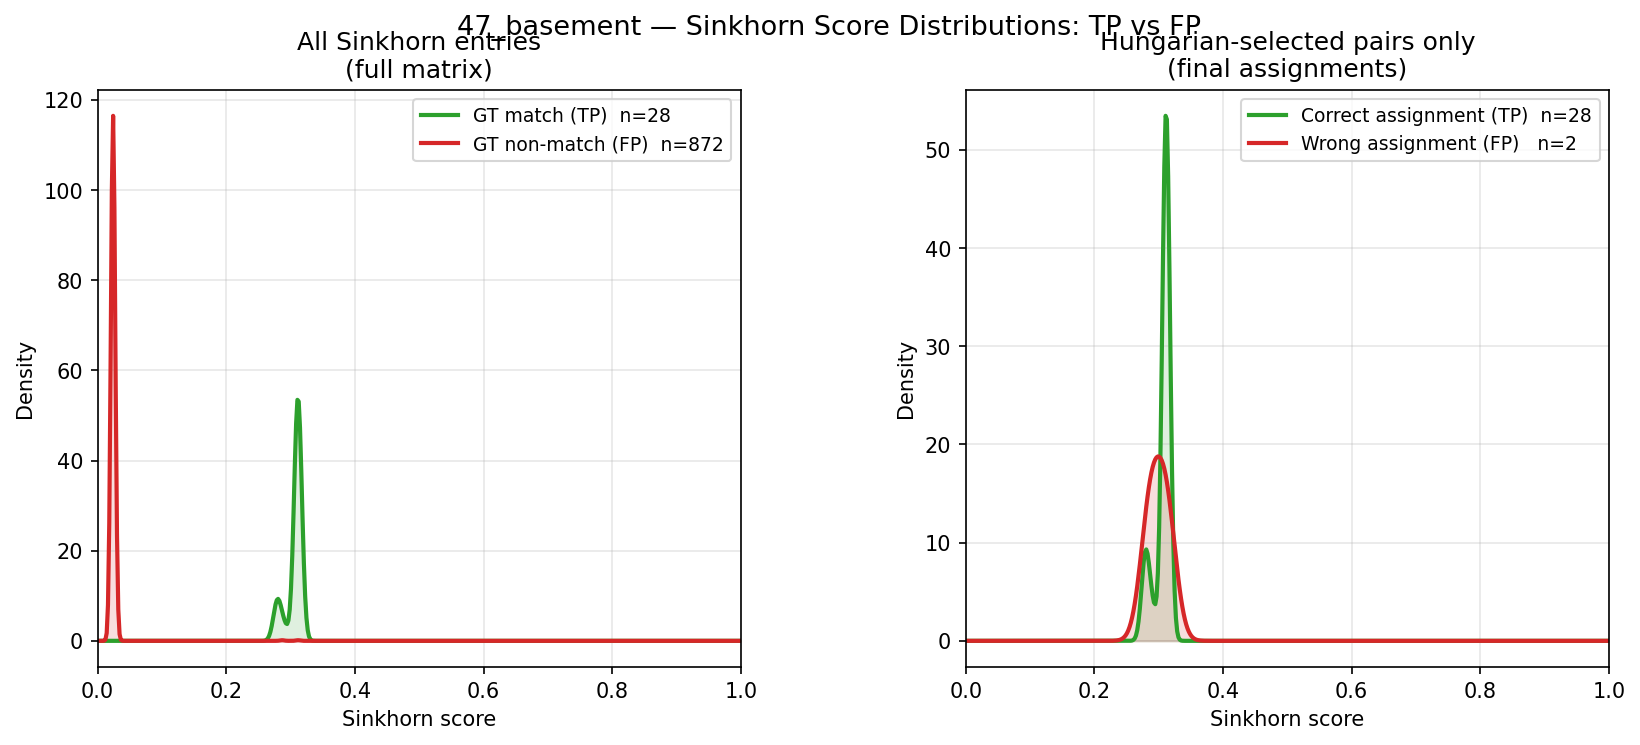
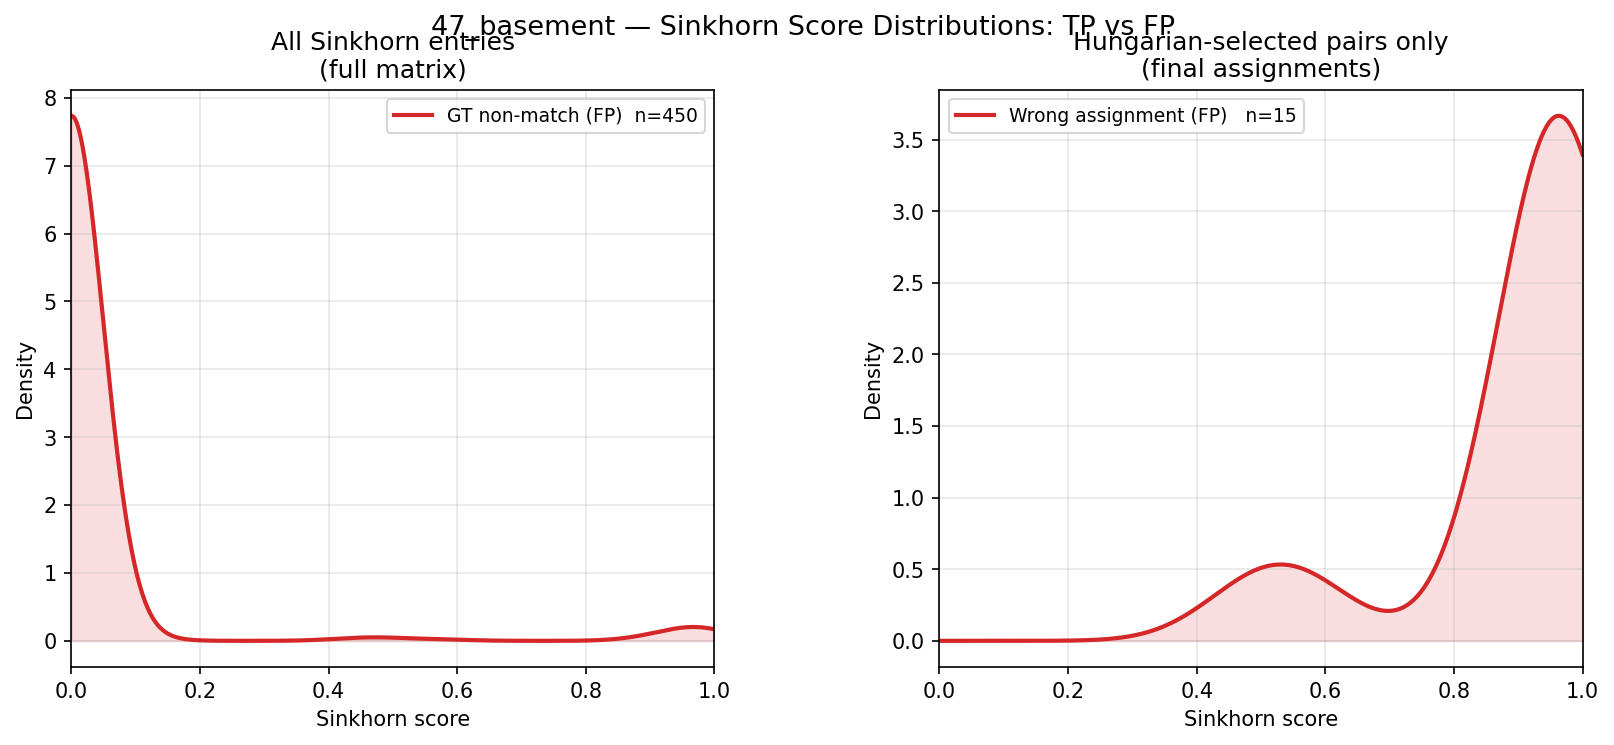
Ante dashoboard

diff --git a/graph_matching/graph_matching_node.py b/graph_matching/graph_matching_node.py
@@ -888,7 +888,7 @@ class GraphMatchingNode(Node):
         # there should be a clear gap between the small cluster of wall-pair distances
         # and the next group of unrelated segment distances.
         # Typical wall thickness in SLAM environments: 0.05 – 0.30 m.
-        WALL_PAIR_THRESHOLD = 0.25  # meters — adjust based on [WALL-PAIR] log output
+        WALL_PAIR_THRESHOLD = 1.0  # meters — adjust based on [WALL-PAIR] log output
 
         for i in range(len(ws_ids_list)):
             for j in range(i + 1, len(ws_ids_list)):
@@ -965,14 +965,14 @@ class GraphMatchingNode(Node):
         # # Remove isolated ws nodes (no room predecessor) for both Prior and Online.
         # # Training data has every ws connected to exactly one room — orphan ws nodes
         # # are a structural pattern the GNN was never trained on and hurt match quality.
-        # orphan_ws = [
-        #     n for n, d in G.graph.nodes(data=True)
-        #     if d.get("type") == "ws"
-        #     and not any(G.graph.nodes[p].get("type") == "room" for p in G.graph.predecessors(n))
-        # ]
-        # if orphan_ws:
-        #     self.get_logger().warn(f"[{G.name}] Removing {len(orphan_ws)} orphan ws nodes with no room connection: {orphan_ws}")
-        #     G.graph.remove_nodes_from(orphan_ws)
+        orphan_ws = [
+            n for n, d in G.graph.nodes(data=True)
+            if d.get("type") == "ws"
+            and not any(G.graph.nodes[p].get("type") == "room" for p in G.graph.predecessors(n))
+        ]
+        if orphan_ws:
+            self.get_logger().warn(f"[{G.name}] Removing {len(orphan_ws)} orphan ws nodes with no room connection: {orphan_ws}")
+            G.graph.remove_nodes_from(orphan_ws)
 
         # G.from_2D_to_3D()
         # G._add_complete_viz_attributes_to_graph()
@@ -1858,7 +1858,7 @@ def main(args=None):
     graph_matching_node = GraphMatchingNode()
 
     # Debug mode: load saved graphs and run matching without waiting for ROS messages
-    debug_offline = False  # Set to True to enable offline debug mode with saved pickles
+    debug_offline = True  # Set to True to enable offline debug mode with saved pickles
     if debug_offline:
         graph_matching_node.load_all_pickle_graphs()
 

diff --git a/graph_matching/matching_synthetic_dataset.py b/graph_matching/matching_synthetic_dataset.py
@@ -20,7 +20,7 @@ USE_PGM = True
 
 
 # Dataset selection — pick one: "synthetic", "msd", "real"
-DATASET = "msd"
+DATASET = "real"
 
 
 # MSD split to evaluate — pick one: "train", "valid", "test"
@@ -415,7 +415,7 @@ def process_node_saved_graph(graph):
 
 
 
-REAL_ENVS = ["47_basement", "47_topfloor_", "CF12"]
+REAL_ENVS = ["47_basement_", "47_topfloor_", "CF12"]
 
 
 def _adapt_to_gnn_format(graph_wrapper, name):
